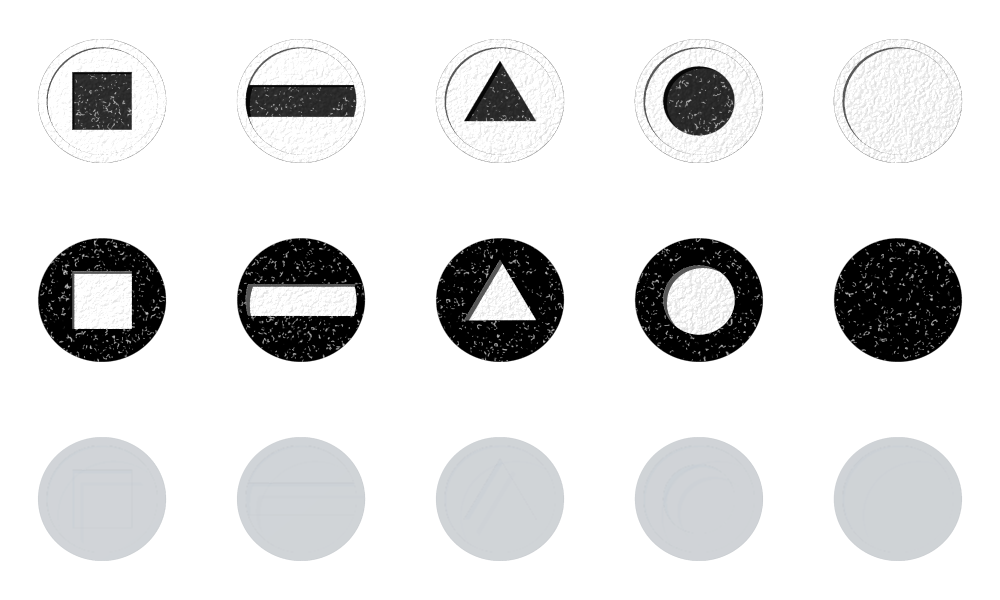
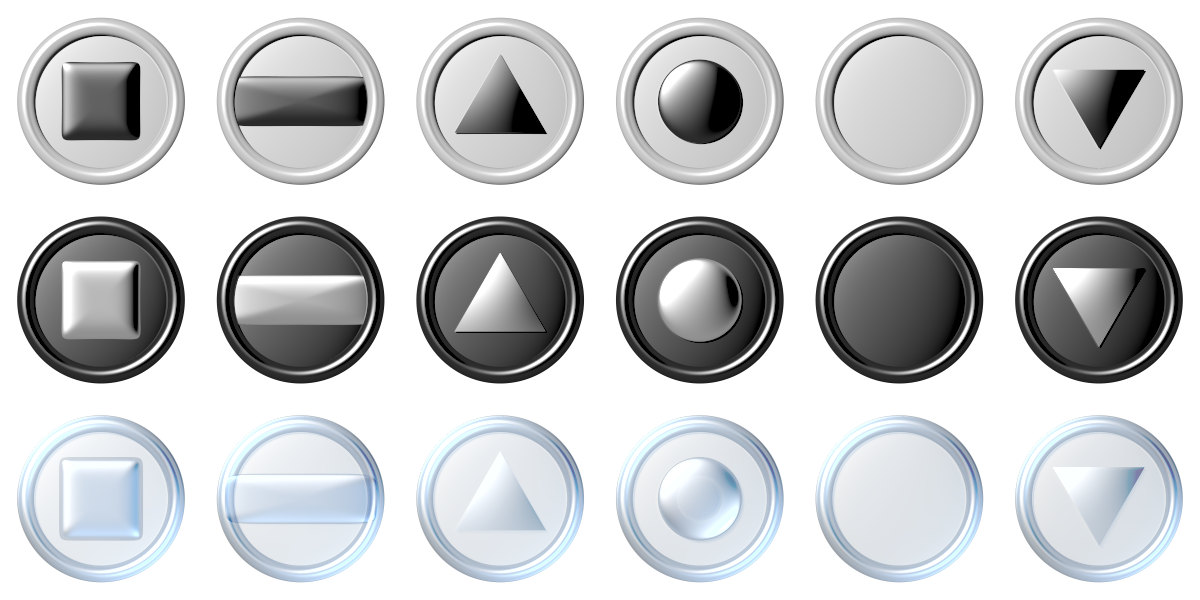
new 'originalshatra' theme and option for flipped batyr pieces (If the pieceimage is 6*3, the 6th piece is interpreted as the flipped batyr,  if pieceimage is 5*3, no flipped batyr is used)

diff --git a/src/gui/boardtheme.cpp b/src/gui/boardtheme.cpp
@@ -29,9 +29,28 @@ BoardTheme::BoardTheme()
 BoardTheme::~BoardTheme()
 {}
 
-const QPixmap& BoardTheme::piece(Piece p) const
+const QPixmap& BoardTheme::piece(Piece p, bool flipped) const
 {
-	return m_piece[p];
+    if (flipped)
+    {
+        if (p == WhiteBatyr)
+            return m_piece[ConstPieceTypes];
+        if (p == BlackBatyr)
+            return m_piece[ConstPieceTypes+1];
+    }
+    return m_piece[p];
+}
+
+const QPixmap& BoardTheme::originalPiece(Piece p, bool flipped) const
+{
+    if (flipped)
+    {
+        if (p == WhiteBatyr)
+            return m_originalPiece[ConstPieceTypes];
+        if (p == BlackBatyr)
+            return m_originalPiece[ConstPieceTypes+1];
+    }
+    return m_originalPiece[p];
 }
 
 const QPixmap& BoardTheme::square(bool dark) const
@@ -49,10 +68,6 @@ const QPixmap& BoardTheme::towerEmboss() const
     return m_towerEmboss;
 }
 
-const QPixmap& BoardTheme::originalPiece(Piece p) const
-{
-	return m_originalPiece[p];
-}
 
 const QPixmap& BoardTheme::originalSquare(bool dark) const
 {
@@ -92,7 +107,8 @@ bool BoardTheme::loadPieces(const QString& pieces, int effect)
 		return false;
 
     int realsize = big.height() / 3;
-    if (realsize != big.width() / 5)
+    bool hasFlippedBatyr = (realsize == big.width() / 6);
+    if (realsize != big.width() / 5 && !hasFlippedBatyr)
 		return false;
     int rs2 = realsize + realsize;
 
@@ -111,6 +127,19 @@ bool BoardTheme::loadPieces(const QString& pieces, int effect)
     m_originalPiece[WasYalkyn] =   big.copy(1 * realsize, rs2, realsize, realsize);
     m_originalPiece[WasBatyr] =    big.copy(2 * realsize, rs2, realsize, realsize);
     m_originalPiece[WasShatra] =   big.copy(4 * realsize, rs2, realsize, realsize);
+    if (hasFlippedBatyr)
+    {
+        m_originalPiece[ConstPieceTypes] =
+                                   big.copy(5 * realsize, 0, realsize, realsize);
+        m_originalPiece[ConstPieceTypes+1] =
+                                   big.copy(5 * realsize, realsize, realsize, realsize);
+    }
+    else
+    {
+        m_originalPiece[ConstPieceTypes] = m_originalPiece[WhiteBatyr];
+        m_originalPiece[ConstPieceTypes+1] = m_originalPiece[BlackBatyr];
+    }
+
     m_pieceFilename = themePath;
 
 	if (size().isEmpty())
@@ -185,7 +214,7 @@ void BoardTheme::setSize(const QSize& value)
 	if (!isValid())
 		return;
 	m_size = value;
-    for (int i = 1; i < ConstPieceTypes; i++)
+    for (int i = 1; i < ConstPieceTypes+2; i++)
         if (i != InvalidPiece)
             m_piece[i] = m_originalPiece[i].scaled(m_size,
                 Qt::IgnoreAspectRatio, Qt::SmoothTransformation);

diff --git a/src/gui/boardtheme.h b/src/gui/boardtheme.h
@@ -17,15 +17,15 @@
 
 #include "common.h"
 
-/*
+
+
+/**
     The BoardTheme class contains set of pixmaps and options to
     define current board theme. Themes are read from INI files pointing
     to set of external pixmaps.
 
     Pixmaps are automatically scaled to given size.
 */
-
-
 class BoardTheme : public QObject
 {
     Q_OBJECT
@@ -46,9 +46,9 @@ public:
     /* @return one of the board colors. */
     QColor color(ColorRole role) const;
     /* @return pixmap for given piece scaled to current size(). */
-    const QPixmap& piece(Piece p) const;
+    const QPixmap& piece(Piece p, bool flipped = false) const;
     /* @return unscaled pixmap for given piece. */
-    const QPixmap& originalPiece(Piece p) const;
+    const QPixmap& originalPiece(Piece p, bool flipped = false) const;
     /* @return pixmap for square. */
     const QPixmap& square(bool dark) const;
     /* @return unscaled pixmap for square. */
@@ -59,8 +59,6 @@ public:
     const QPixmap& towerEmboss() const;
     /* Checks if themes is valid (pixmaps loaded). */
     bool isValid() const;
-    /** Returns true when the Batyr piece needs to be rotated */
-    bool isOriginalBatyr() const { return m_org_batyr; }
     /* Returns name of board theme. It is just file without a path and extension. */
     QString boardThemeName() const;
     /* Returns name of piece theme. It is just file without a path and extension. */
@@ -82,8 +80,8 @@ public:
 
 private:
     bool isBoardPlain() const;
-    QPixmap m_originalPiece[ConstPieceTypes];
-    QPixmap m_piece[ConstPieceTypes];
+    QPixmap m_originalPiece[ConstPieceTypes+2];
+    QPixmap m_piece[ConstPieceTypes+2];
     QPixmap m_originalSquare[2];
     QPixmap m_square[2];
     QPixmap m_originalUrgent;

diff --git a/src/gui/boardpainter.cpp b/src/gui/boardpainter.cpp
@@ -128,6 +128,20 @@ public:
     /** should this piece be animated (square > squareTo) */
     bool animate;
 
+    /** Sets 180 rotation on/off */
+    void setRotate(bool doit)
+    {
+        QTransform t = transform();
+        if (!doit)
+            t.reset();
+        else
+        {
+            t.translate(pixmap().width(), pixmap().height());
+            t.rotate(180);
+        }
+        setTransform(t);
+    }
+
 };
 
 
@@ -326,20 +340,12 @@ void BoardPainter::createPieces_(const Board& board)
         if (p == InvalidPiece) continue;
 
         // pixmap for piece
-        const QPixmap& pm = m_theme->piece(p);
+        const QPixmap& pm = m_theme->piece(p,
+                   (!isFlipped() && p == BlackBatyr)
+                || (isFlipped() && p == WhiteBatyr) );
 
         PieceItem * item = new PieceItem(p, i, pm);
         item->setPos(squarePos(i));
-        // rotate batyr piece
-        //if (m_theme->isOriginalBatyr())
-        {
-            //if (   (!isFlipped() && p == BlackBatyr)
-            //    || (isFlipped() && p == WhiteBatyr))
-            {
-                item->matrix().scale(2,2);//rotate(180);
-            }
-        }
-
 
         // add to scene
         m_scene->addItem(item);
@@ -394,6 +400,11 @@ void BoardPainter::onFlip_()
     for (size_t i=0; i<m_pieces.size(); ++i)
     {
         m_pieces[i]->setPos(squarePos(m_pieces[i]->square));
+        // update batyr graphic
+        if (m_pieces[i]->piece == WhiteBatyr)
+            m_pieces[i]->setPixmap(m_theme->piece(WhiteBatyr, isFlipped()));
+        if (m_pieces[i]->piece == BlackBatyr)
+            m_pieces[i]->setPixmap(m_theme->piece(BlackBatyr, !isFlipped()));
     }
 
     updateMoveIndicators_();
